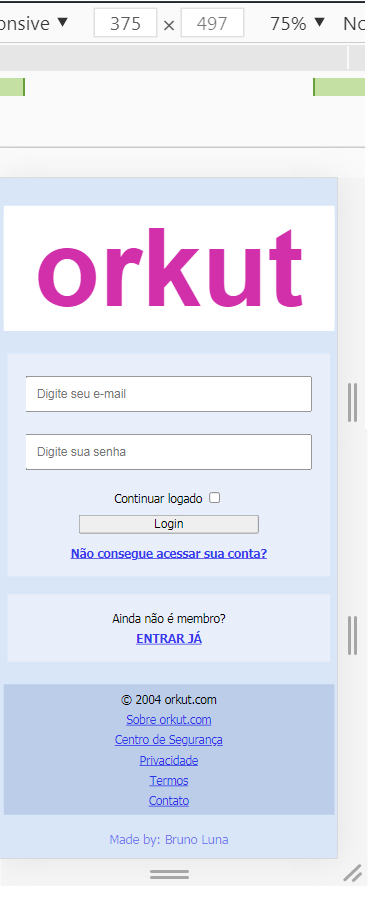
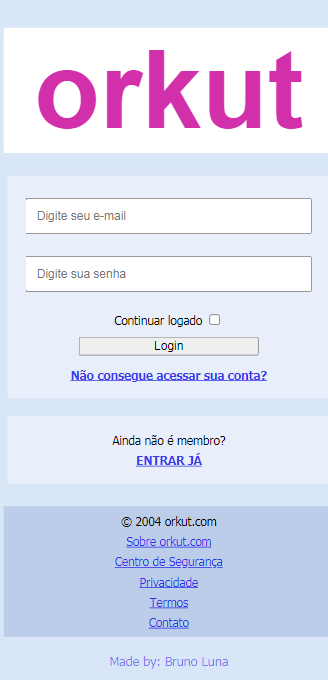
[readme: inserindo link da vercel e screenshot]

diff --git a/README.md b/README.md
@@ -11,7 +11,7 @@ Neste projeto/desafio pessoal e tambem nostálgico (haha), refiz o layout da red
 
 ## :tada:  Link:
 
-https://bruno-luna.github.io/orkut-clone/
+https://orkut-clone-nwnp10twp-bruno-luna.vercel.app/
 
 ## Estrutura do diretório:
 
@@ -40,3 +40,16 @@ https://bruno-luna.github.io/orkut-clone/
 - Rosa: `#D230AA` 
 - Azul: `rgba(0, 0, 233, 0.772)`, 
 - Azul-claro:  `#bccdea`,  `#E8EEFA`,  `#d9e6f7`.
+
+## Screenshot:
+
+### Desktop:
+
+![](https://github.com/Bruno-Luna/orkut-clone/blob/master/assets/screenschot/sc-I.png)
+
+
+
+### Mobile:
+
+![](https://github.com/Bruno-Luna/orkut-clone/blob/master/assets/screenschot/sc-mobile.png)
+
